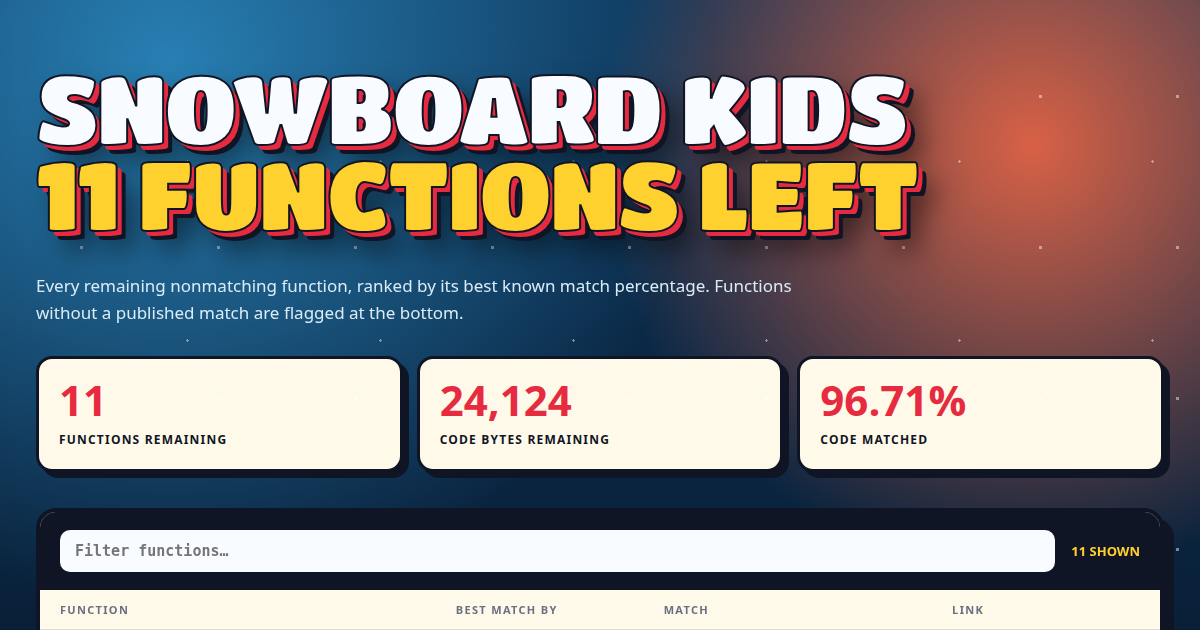
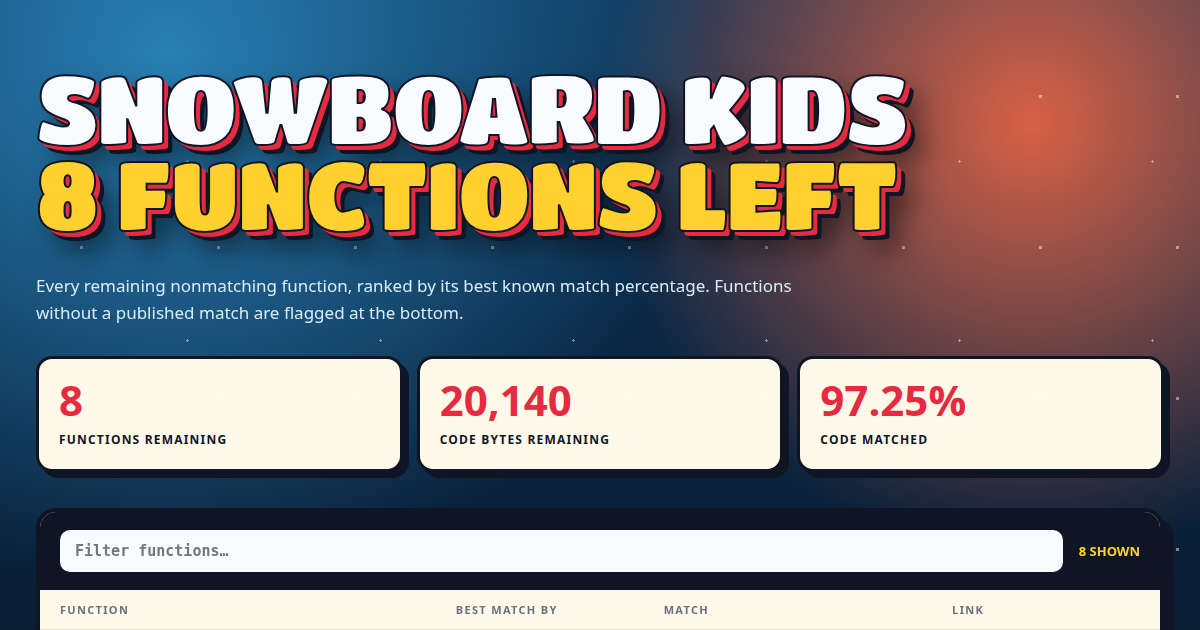
update leaderboard

diff --git a/docs/index.html b/docs/index.html
@@ -3,9 +3,9 @@
   <head>
     <meta charset="utf-8" />
     <meta name="viewport" content="width=device-width, initial-scale=1" />
-    <title>Snowboard Kids — 11 Functions Left</title>
+    <title>Snowboard Kids — 8 Functions Left</title>
     <meta name="description" content="Snowboard Kids matching decompilation progress and remaining function report." />
-    <meta property="og:title" content="Snowboard Kids — 11 Functions Left" />
+    <meta property="og:title" content="Snowboard Kids — 8 Functions Left" />
     <meta property="og:description" content="Best known match percentages for the remaining functions." />
     <meta property="og:type" content="website" />
     <meta property="og:image" content="og.png" />
@@ -199,40 +199,31 @@
   </head>
   <body>
     <header>
-      <h1>Snowboard Kids<br /><em>11 functions left</em></h1>
+      <h1>Snowboard Kids<br /><em>8 functions left</em></h1>
       <p class="intro">Every remaining nonmatching function, ranked by its best known match percentage. Functions without a published match are flagged at the bottom.</p>
     </header>
 
     <section class="stats" aria-label="Project summary">
-      <div class="stat"><strong>11</strong><span>functions remaining</span></div>
-      <div class="stat"><strong>24,124</strong><span>code bytes remaining</span></div>
-      <div class="stat"><strong>96.71%</strong><span>code matched</span></div>
+      <div class="stat"><strong>8</strong><span>functions remaining</span></div>
+      <div class="stat"><strong>20,140</strong><span>code bytes remaining</span></div>
+      <div class="stat"><strong>97.25%</strong><span>code matched</span></div>
     </section>
 
     <main>
       <section class="panel">
         <div class="toolbar">
           <label><input id="search" type="search" placeholder="Filter functions…" autocomplete="off" /></label>
-          <span id="visible-count">11 shown</span>
+          <span id="visible-count">8 shown</span>
         </div>
         <div class="table-head"><span>Function</span><span>Best match by</span><span>Match</span><span>Link</span></div>
-        <article class="function-row" data-name="drawscaledassettablesprite" data-score="99.906832">
+        <article class="function-row" data-name="drawmenuspriteclipped" data-score="99.798387">
           <div class="function-cell">
-            <span class="function-name">drawScaledAssetTableSprite</span>
-            <span class="function-size">1,288 bytes</span>
-          </div>
-          <div class="source-cell">Bl00D4NGEL</div>
-          <div class="score-cell"><div class="score-track" aria-label="Match 99.907%"><span style="width:99.907%"></span></div><strong>99.907%</strong></div>
-          <div class="actions"><a class="action" href="https://decomp.me/scratch/4VVch" target="_blank" rel="noopener">decomp.me ↗</a></div>
-        </article>
-        <article class="function-row" data-name="drawscaledassettablespritewithexplicitpalette" data-score="99.881988">
-          <div class="function-cell">
-            <span class="function-name">drawScaledAssetTableSpriteWithExplicitPalette</span>
-            <span class="function-size">1,288 bytes</span>
+            <span class="function-name">drawMenuSpriteClipped</span>
+            <span class="function-size">1,984 bytes</span>
           </div>
           <div class="source-cell">inspectredc</div>
-          <div class="score-cell"><div class="score-track" aria-label="Match 99.882%"><span style="width:99.882%"></span></div><strong>99.882%</strong></div>
-          <div class="actions"><a class="action" href="https://decomp.me/scratch/Bn6xF" target="_blank" rel="noopener">decomp.me ↗</a></div>
+          <div class="score-cell"><div class="score-track" aria-label="Match 99.798%"><span style="width:99.798%"></span></div><strong>99.798%</strong></div>
+          <div class="actions"><a class="action" href="https://decomp.me/scratch/rfaUd" target="_blank" rel="noopener">decomp.me ↗</a></div>
         </article>
         <article class="function-row" data-name="updatecharacterselectmenu" data-score="99.475676">
           <div class="function-cell">
@@ -242,6 +233,15 @@
           <div class="source-cell">cdlewis</div>
           <div class="score-cell"><div class="score-track" aria-label="Match 99.476%"><span style="width:99.476%"></span></div><strong>99.476%</strong></div>
           <div class="actions"><a class="action" href="https://decomp.me/scratch/kBzbc" target="_blank" rel="noopener">decomp.me ↗</a></div>
+        </article>
+        <article class="function-row" data-name="drawmenuspritefixedscale" data-score="99.343602">
+          <div class="function-cell">
+            <span class="function-name">drawMenuSpriteFixedScale</span>
+            <span class="function-size">1,688 bytes</span>
+          </div>
+          <div class="source-cell">inspectredc</div>
+          <div class="score-cell"><div class="score-track" aria-label="Match 99.344%"><span style="width:99.344%"></span></div><strong>99.344%</strong></div>
+          <div class="actions"><a class="action" href="https://decomp.me/scratch/SZ3ro" target="_blank" rel="noopener">decomp.me ↗</a></div>
         </article>
         <article class="function-row" data-name="resolveraceplayercollisionvolumes" data-score="99.094368">
           <div class="function-cell">
@@ -261,15 +261,6 @@
           <div class="score-cell"><div class="score-track" aria-label="Match 98.664%"><span style="width:98.664%"></span></div><strong>98.664%</strong></div>
           <div class="actions"><a class="action" href="https://decomp.me/scratch/R1rAf" target="_blank" rel="noopener">decomp.me ↗</a></div>
         </article>
-        <article class="function-row" data-name="drawmenuspriteclipped" data-score="97.766129">
-          <div class="function-cell">
-            <span class="function-name">drawMenuSpriteClipped</span>
-            <span class="function-size">1,984 bytes</span>
-          </div>
-          <div class="source-cell">inspectredc</div>
-          <div class="score-cell"><div class="score-track" aria-label="Match 97.766%"><span style="width:97.766%"></span></div><strong>97.766%</strong></div>
-          <div class="actions"><a class="action" href="https://decomp.me/scratch/UrfjM" target="_blank" rel="noopener">decomp.me ↗</a></div>
-        </article>
         <article class="function-row" data-name="updatemultiplayercourseselectmenu" data-score="97.080240">
           <div class="function-cell">
             <span class="function-name">updateMultiplayerCourseSelectMenu</span>
@@ -278,24 +269,6 @@
           <div class="source-cell">cdlewis</div>
           <div class="score-cell"><div class="score-track" aria-label="Match 97.080%"><span style="width:97.080%"></span></div><strong>97.080%</strong></div>
           <div class="actions"><a class="action" href="https://decomp.me/scratch/l7O10" target="_blank" rel="noopener">decomp.me ↗</a></div>
-        </article>
-        <article class="function-row" data-name="drawcourseselectcoursedescription" data-score="96.463068">
-          <div class="function-cell">
-            <span class="function-name">drawCourseSelectCourseDescription</span>
-            <span class="function-size">1,408 bytes</span>
-          </div>
-          <div class="source-cell">cdlewis</div>
-          <div class="score-cell"><div class="score-track" aria-label="Match 96.463%"><span style="width:96.463%"></span></div><strong>96.463%</strong></div>
-          <div class="actions"><a class="action" href="https://decomp.me/scratch/T5kmn" target="_blank" rel="noopener">decomp.me ↗</a></div>
-        </article>
-        <article class="function-row" data-name="drawmenuspritefixedscale" data-score="94.542654">
-          <div class="function-cell">
-            <span class="function-name">drawMenuSpriteFixedScale</span>
-            <span class="function-size">1,688 bytes</span>
-          </div>
-          <div class="source-cell">cdlewis</div>
-          <div class="score-cell"><div class="score-track" aria-label="Match 94.543%"><span style="width:94.543%"></span></div><strong>94.543%</strong></div>
-          <div class="actions"><a class="action" href="https://decomp.me/scratch/N3xzX" target="_blank" rel="noopener">decomp.me ↗</a></div>
         </article>
         <article class="function-row" data-name="drawmenuspritewithalphaclipped" data-score="91.425390">
           <div class="function-cell">
@@ -319,7 +292,7 @@
       </section>
     </main>
 
-    <footer>Generated 2026-08-18 17:45 UTC · scores are snapshots and may have moved since generation</footer>
+    <footer>Generated 2026-08-19 03:10 UTC · scores are snapshots and may have moved since generation</footer>
     <script>
       const search = document.querySelector("#search");
       const rows = [...document.querySelectorAll(".function-row")];
